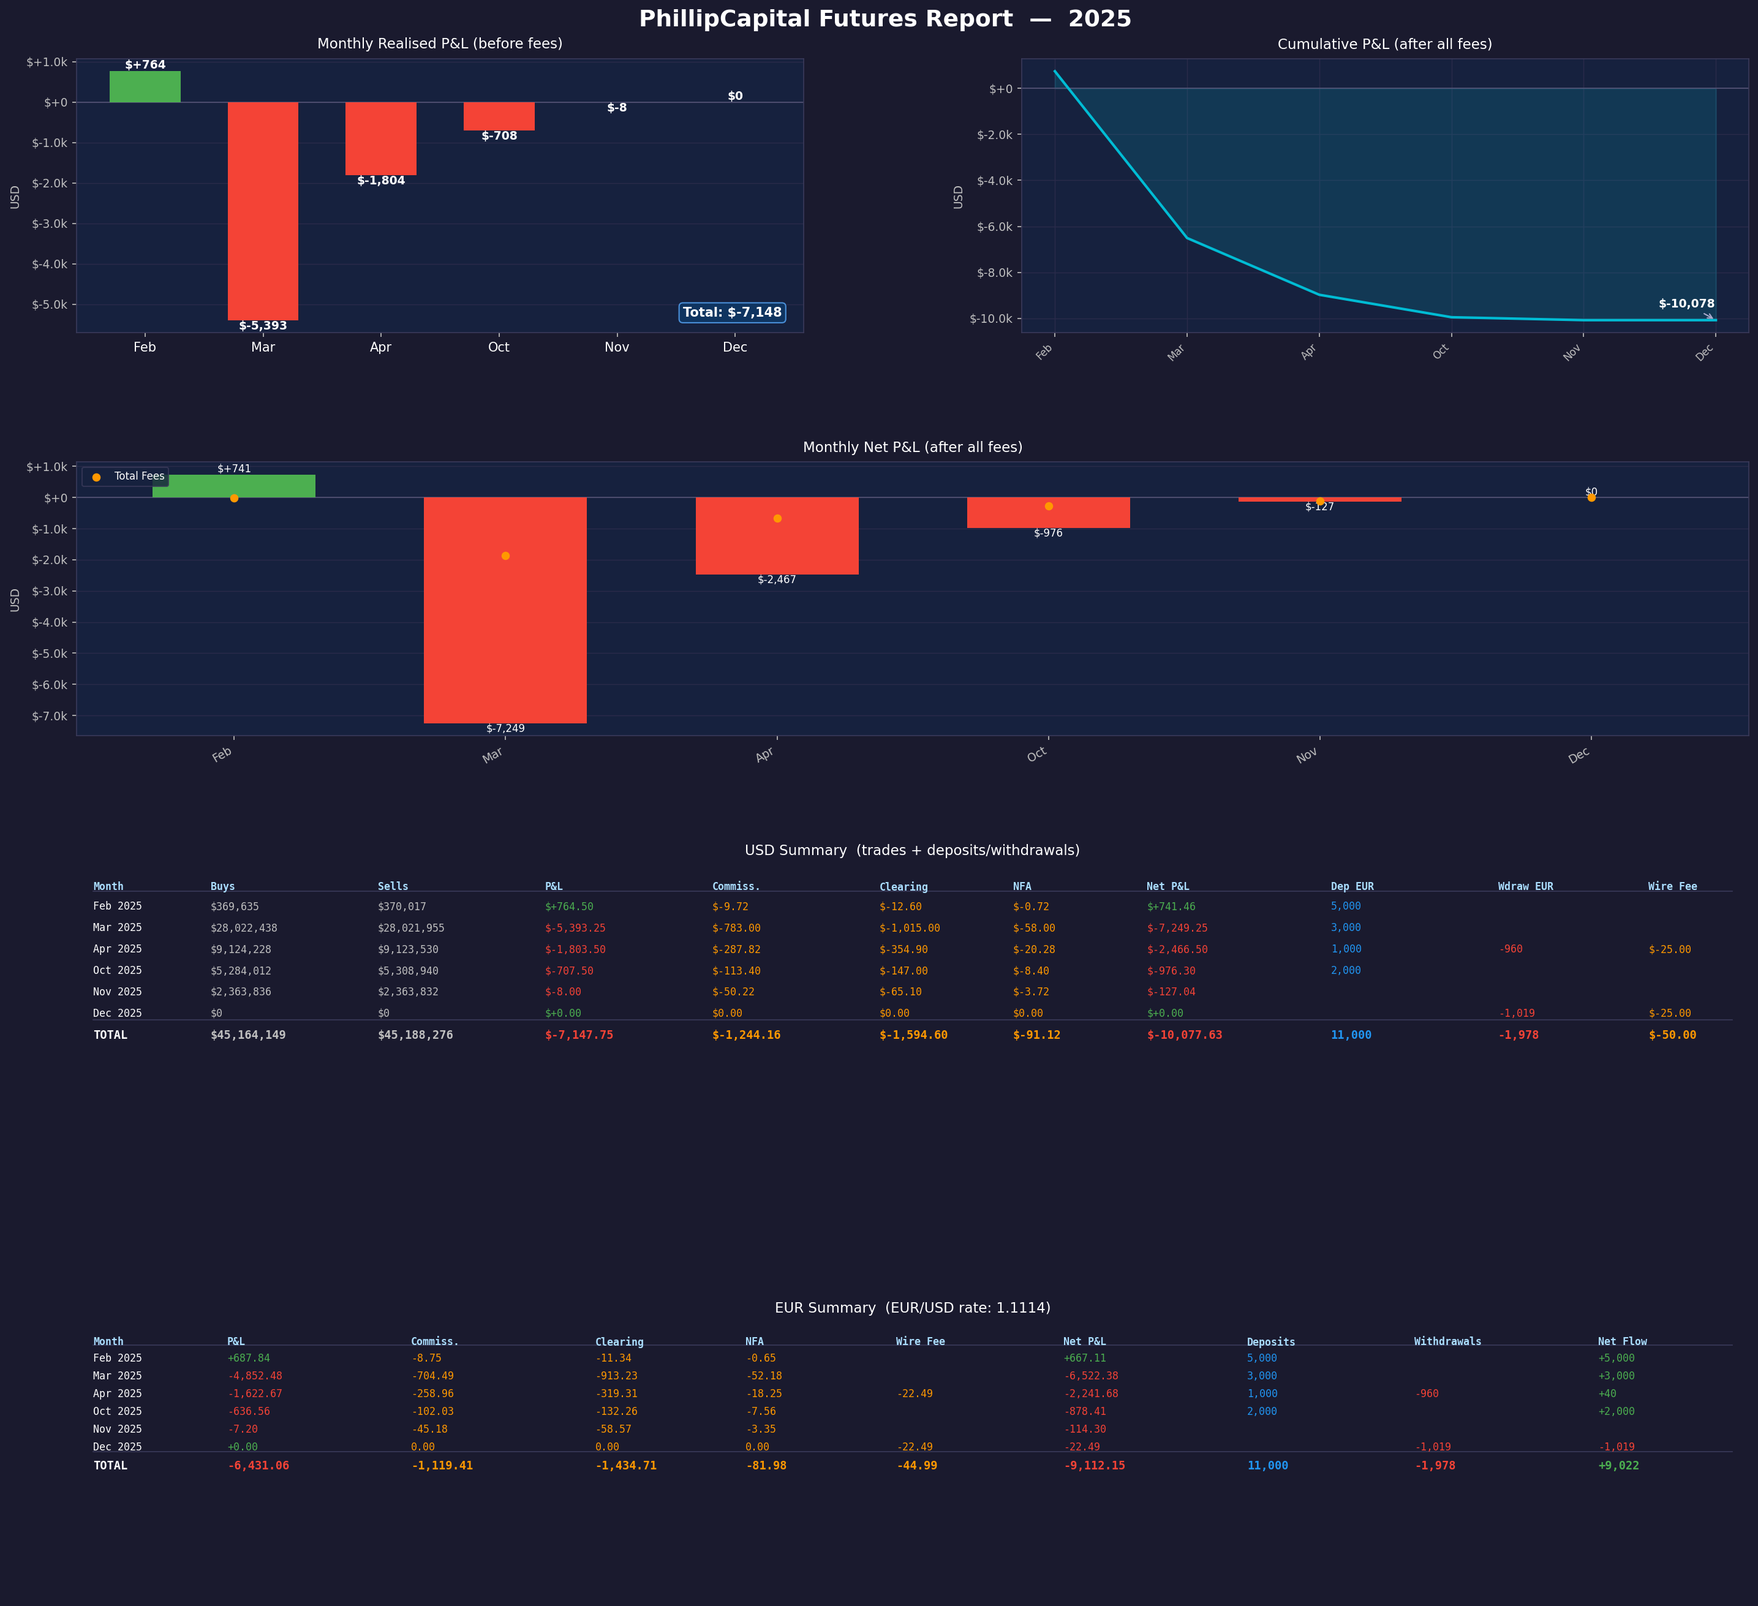
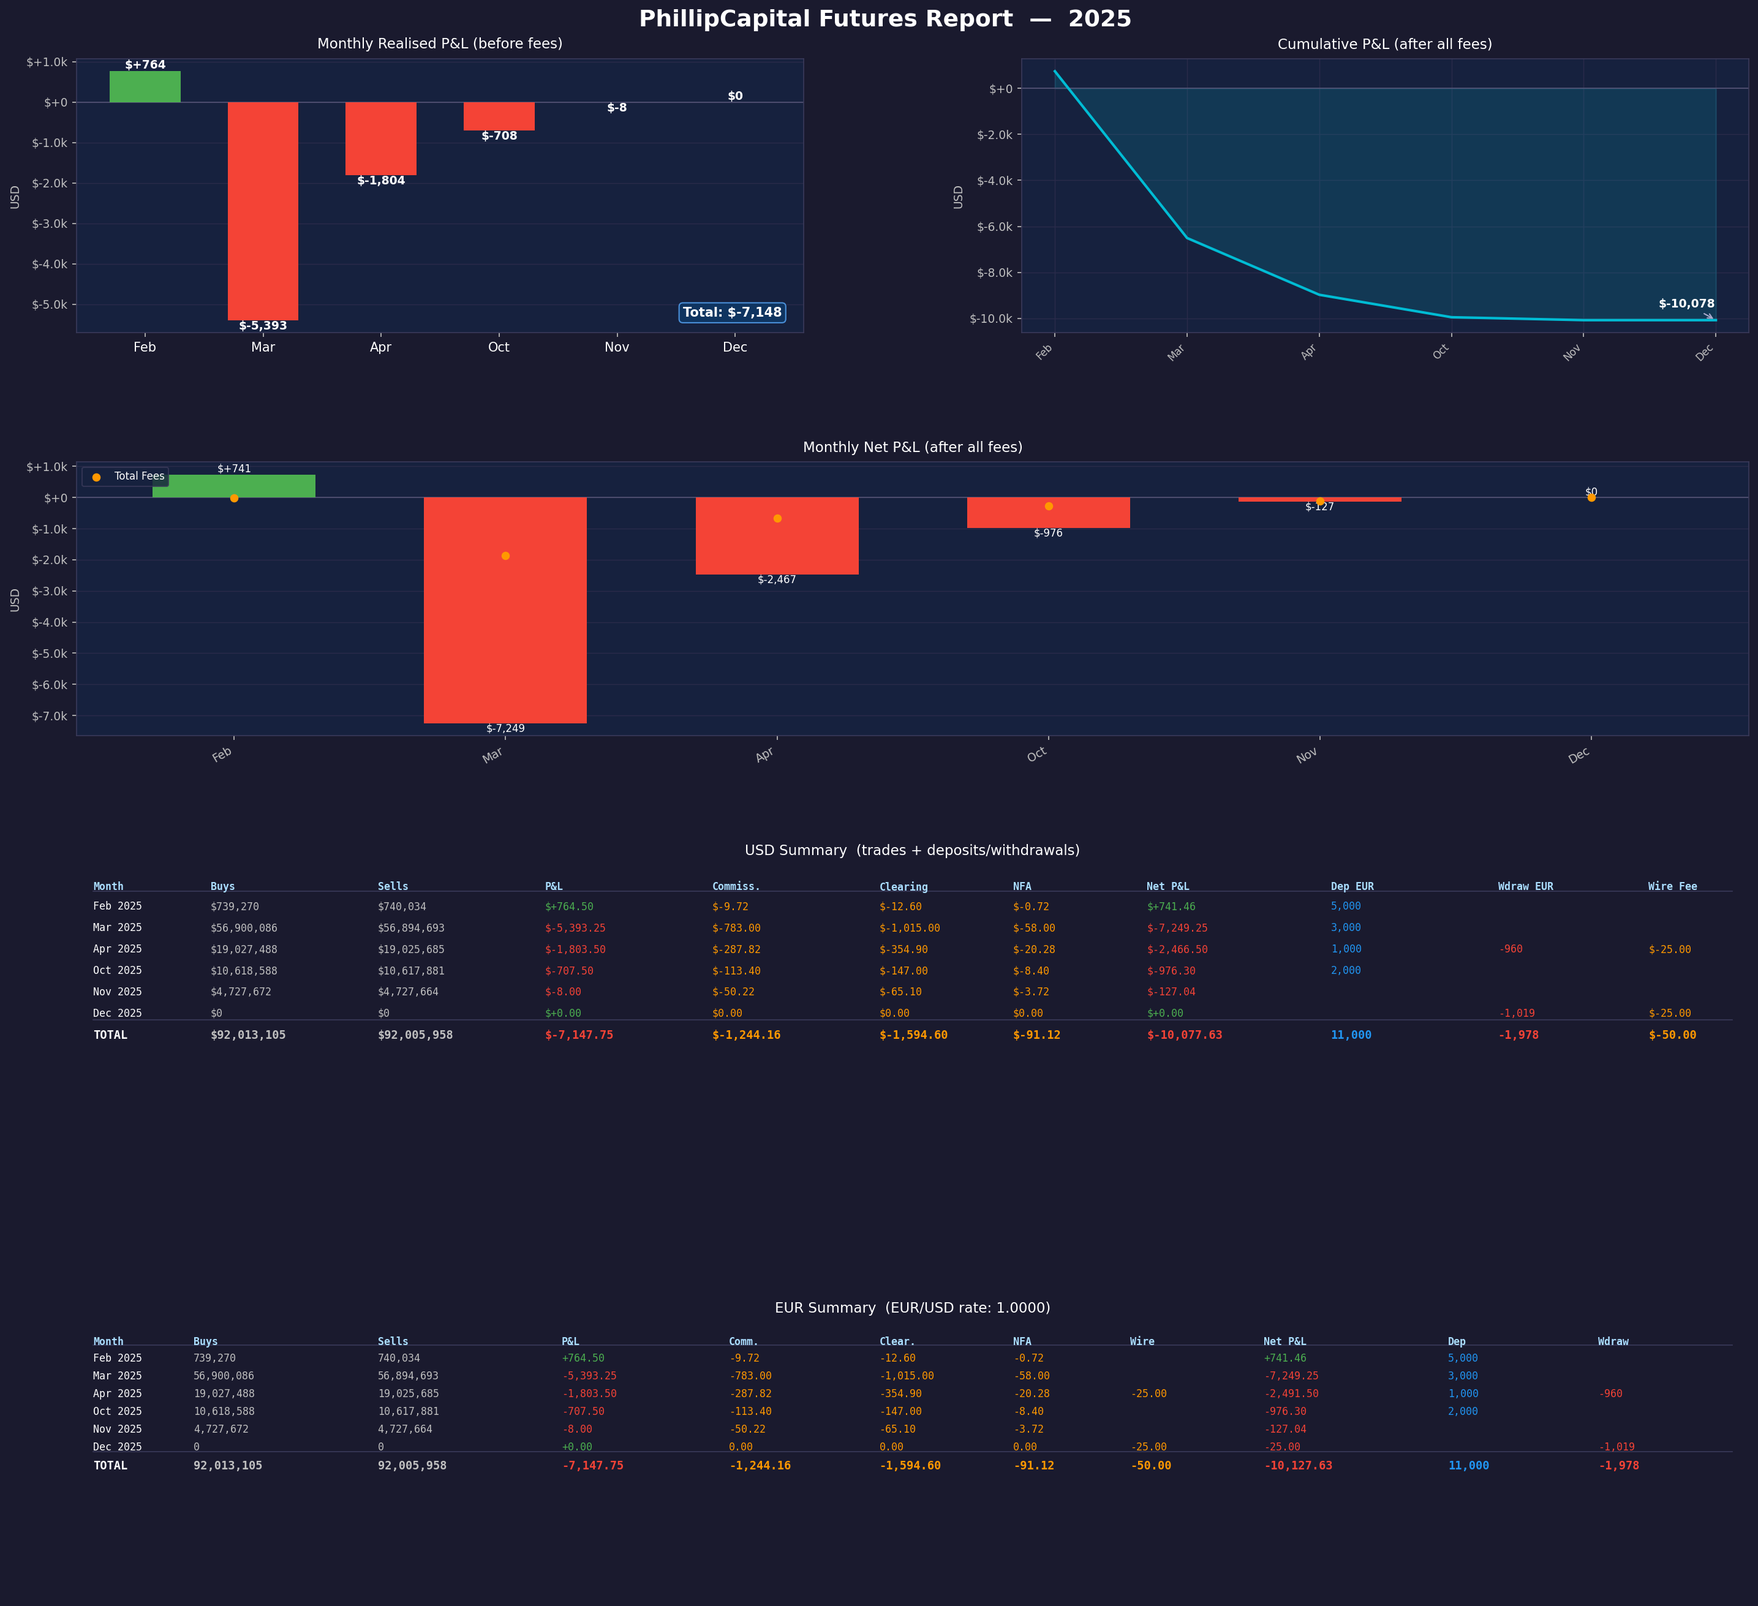
Apply multipliers to buys/sells totals, add EUR buys/sells columns, add debug output with grand totals
- Fix calc_month_totals to multiply buys/sells by contract multiplier
- Add Buys/Sells columns to EUR summary (console + PNG)
- Round diff to avoid -0.00 display
- Add debug_output.txt with per-contract data, grand totals, and raw PDF line matches
- Update example.png

diff --git a/parser.py b/parser.py
@@ -292,15 +292,16 @@ def parse_trades(pdf_path, year, multipliers):
 
 
 def calc_month_totals(data, month, multipliers):
-    """Calculate aggregated buys, sells, and calculated P&L for a month across all contracts."""
+    """Calculate aggregated buys, sells, and calculated P&L for a month across all contracts.
+    Buys and sells are multiplied by the contract multiplier to give USD values."""
     d = data[month]
     total_buys = 0.0
     total_sells = 0.0
     calc_pnl = 0.0
     for sym, c in d["contracts"].items():
         mult = multipliers.get(sym, 1)
-        total_buys += c["buys"]
-        total_sells += c["sells"]
+        total_buys += c["buys"] * mult
+        total_sells += c["sells"] * mult
         calc_pnl += (c["sells"] - c["buys"]) * mult
     return total_buys, total_sells, calc_pnl
 
@@ -320,15 +321,17 @@ def print_table(data, year, eur_rate, multipliers):
         print(f"\n{'':=^100}")
         print(f"{'PER-CONTRACT BREAKDOWN':^100}")
         print(f"{'':=^100}")
-        print(f"\n{'MONTH':>8} | {'SYM':>5} | {'MULT':>5} | {'BUY QTY':>8} | {'SELL QTY':>8} | {'BUYS':>16} | {'SELLS':>16} | {'CALC P&L':>14}")
+        print(f"\n{'MONTH':>8} | {'SYM':>5} | {'MULT':>5} | {'BUY QTY':>8} | {'SELL QTY':>8} | {'BUYS (USD)':>16} | {'SELLS (USD)':>16} | {'CALC P&L':>14}")
         print("-" * 100)
         for month in months:
             label = f"{MONTH_NAMES.get(month[:2], month[:2])} {year}"
             for sym in sorted(data[month]["contracts"].keys()):
                 c = data[month]["contracts"][sym]
                 mult = multipliers.get(sym, 1)
-                pnl = (c["sells"] - c["buys"]) * mult
-                print(f"{label:>8} | {sym:>5} | {mult:>5} | {c['buy_qty']:>8} | {c['sell_qty']:>8} | {c['buys']:>16,.2f} | {c['sells']:>16,.2f} | {pnl:>+14,.2f}")
+                buys_usd = c["buys"] * mult
+                sells_usd = c["sells"] * mult
+                pnl = sells_usd - buys_usd
+                print(f"{label:>8} | {sym:>5} | {mult:>5} | {c['buy_qty']:>8} | {c['sell_qty']:>8} | {buys_usd:>16,.2f} | {sells_usd:>16,.2f} | {pnl:>+14,.2f}")
 
     # ── USD Table ────────────────────────────────────────────────────────────
     print(f"\n{'':=^140}")
@@ -342,7 +345,7 @@ def print_table(data, year, eur_rate, multipliers):
         d = data[month]
         buys, sells, calc_pnl = calc_month_totals(data, month, multipliers)
         net = d["pnl"] + d["commission"] + d["clearing_fee"] + d["nfa_fee"]
-        diff = calc_pnl - d["pnl"]
+        diff = round(calc_pnl - d["pnl"], 2)
         label = f"{MONTH_NAMES.get(month[:2], month[:2])} {year}"
         print(f"{label:>8} | {buys:>14,.2f} | {sells:>14,.2f} | {calc_pnl:>+12,.2f} | {d['pnl']:>+12,.2f} | {diff:>+10,.2f} | {d['commission']:>12,.2f} | {d['clearing_fee']:>10,.2f} | {d['nfa_fee']:>8,.2f} | {net:>+14,.2f}")
         totals["buys"] += buys
@@ -353,7 +356,7 @@ def print_table(data, year, eur_rate, multipliers):
 
     print("-" * 140)
     net_total = totals["pnl"] + totals["commission"] + totals["clearing_fee"] + totals["nfa_fee"]
-    total_diff = totals["calc_pnl"] - totals["pnl"]
+    total_diff = round(totals["calc_pnl"] - totals["pnl"], 2)
     print(f"{'TOTAL':>8} | {totals['buys']:>14,.2f} | {totals['sells']:>14,.2f} | {totals['calc_pnl']:>+12,.2f} | {totals['pnl']:>+12,.2f} | {total_diff:>+10,.2f} | {totals['commission']:>12,.2f} | {totals['clearing_fee']:>10,.2f} | {totals['nfa_fee']:>8,.2f} | {net_total:>+14,.2f}")
 
     # ── Deposits & Withdrawals ───────────────────────────────────────────────
@@ -373,22 +376,23 @@ def print_table(data, year, eur_rate, multipliers):
     print(f"{'TOTAL':>8} | {totals['deposits_eur']:>16,.2f} | {totals['withdrawals_eur']:>+18,.2f} | {totals['wire_fees_usd']:>16,.2f} | {net_flow_total:>+16,.2f}")
 
     # ── EUR Table ────────────────────────────────────────────────────────────
-    print(f"\n{'':=^130}")
-    print(f"{'EUR SUMMARY  (EUR/USD rate: ' + f'{eur_rate:.4f})':^130}")
-    print(f"{'':=^130}")
+    print(f"\n{'':=^160}")
+    print(f"{'EUR SUMMARY  (EUR/USD rate: ' + f'{eur_rate:.4f})':^160}")
+    print(f"{'':=^160}")
     to_eur = 1.0 / eur_rate
-    print(f"\n{'MONTH':>8} | {'REALISED P&L':>14} | {'COMMISSION':>12} | {'CLEARING':>10} | {'NFA':>8} | {'WIRE FEES':>10} | {'NET P&L':>14} | {'DEPOSITS':>12} | {'WITHDRAWALS':>14}")
-    print("-" * 130)
+    print(f"\n{'MONTH':>8} | {'BUYS':>16} | {'SELLS':>16} | {'REALISED P&L':>14} | {'COMMISSION':>12} | {'CLEARING':>10} | {'NFA':>8} | {'WIRE FEES':>10} | {'NET P&L':>14} | {'DEPOSITS':>12} | {'WITHDRAWALS':>14}")
+    print("-" * 160)
 
     for month in months:
         d = data[month]
+        buys, sells, _ = calc_month_totals(data, month, multipliers)
         net_usd = d["pnl"] + d["commission"] + d["clearing_fee"] + d["nfa_fee"] + d["wire_fees_usd"]
         label = f"{MONTH_NAMES.get(month[:2], month[:2])} {year}"
-        print(f"{label:>8} | {d['pnl']*to_eur:>+14,.2f} | {d['commission']*to_eur:>12,.2f} | {d['clearing_fee']*to_eur:>10,.2f} | {d['nfa_fee']*to_eur:>8,.2f} | {d['wire_fees_usd']*to_eur:>10,.2f} | {net_usd*to_eur:>+14,.2f} | {d['deposits_eur']:>12,.2f} | {d['withdrawals_eur']:>+14,.2f}")
+        print(f"{label:>8} | {buys*to_eur:>16,.2f} | {sells*to_eur:>16,.2f} | {d['pnl']*to_eur:>+14,.2f} | {d['commission']*to_eur:>12,.2f} | {d['clearing_fee']*to_eur:>10,.2f} | {d['nfa_fee']*to_eur:>8,.2f} | {d['wire_fees_usd']*to_eur:>10,.2f} | {net_usd*to_eur:>+14,.2f} | {d['deposits_eur']:>12,.2f} | {d['withdrawals_eur']:>+14,.2f}")
 
-    print("-" * 130)
+    print("-" * 160)
     total_net_usd = net_total + totals["wire_fees_usd"]
-    print(f"{'TOTAL':>8} | {totals['pnl']*to_eur:>+14,.2f} | {totals['commission']*to_eur:>12,.2f} | {totals['clearing_fee']*to_eur:>10,.2f} | {totals['nfa_fee']*to_eur:>8,.2f} | {totals['wire_fees_usd']*to_eur:>10,.2f} | {total_net_usd*to_eur:>+14,.2f} | {totals['deposits_eur']:>12,.2f} | {totals['withdrawals_eur']:>+14,.2f}")
+    print(f"{'TOTAL':>8} | {totals['buys']*to_eur:>16,.2f} | {totals['sells']*to_eur:>16,.2f} | {totals['pnl']*to_eur:>+14,.2f} | {totals['commission']*to_eur:>12,.2f} | {totals['clearing_fee']*to_eur:>10,.2f} | {totals['nfa_fee']*to_eur:>8,.2f} | {totals['wire_fees_usd']*to_eur:>10,.2f} | {total_net_usd*to_eur:>+14,.2f} | {totals['deposits_eur']:>12,.2f} | {totals['withdrawals_eur']:>+14,.2f}")
 
 
 def generate_report(data, year, pdf_path, eur_rate, multipliers):
@@ -617,8 +621,8 @@ def generate_report(data, year, pdf_path, eur_rate, multipliers):
     ax_eur.axis("off")
     ax_eur.set_title(f"EUR Summary  (EUR/USD rate: {eur_rate:.4f})", color="white", fontsize=11, pad=8)
 
-    eur_cols = ["Month", "P&L", "Commiss.", "Clearing", "NFA", "Wire Fee", "Net P&L", "Deposits", "Withdrawals", "Net Flow"]
-    eur_x = [0.01, 0.09, 0.20, 0.31, 0.40, 0.49, 0.59, 0.70, 0.80, 0.91]
+    eur_cols = ["Month", "Buys", "Sells", "P&L", "Comm.", "Clear.", "NFA", "Wire", "Net P&L", "Dep", "Wdraw"]
+    eur_x = [0.01, 0.07, 0.18, 0.29, 0.39, 0.48, 0.56, 0.63, 0.71, 0.82, 0.91]
     y_start_e = 0.95
 
     for ci, label in enumerate(eur_cols):
@@ -633,18 +637,19 @@ def generate_report(data, year, pdf_path, eur_rate, multipliers):
     for ri, month in enumerate(months):
         y = y_start_e - 0.06 - ri * row_h
         d = data[month]
+        buys_m, sells_m, _ = month_totals[ri]
         net_usd = d["pnl"] + d["commission"] + d["clearing_fee"] + d["nfa_fee"] + d["wire_fees_usd"]
-        net_flow = d["deposits_eur"] + d["withdrawals_eur"]
         m_label = f"{MONTH_NAMES.get(month[:2], month[:2])} {year}"
 
         pnl_e = d["pnl"] * to_eur
         net_e = net_usd * to_eur
         pnl_color = pos_color if pnl_e >= 0 else neg_color
         net_color = pos_color if net_e >= 0 else neg_color
-        flow_color = pos_color if net_flow >= 0 else neg_color
 
         vals = [
             (m_label, "white"),
+            (f"{buys_m*to_eur:,.0f}", TICK_COL),
+            (f"{sells_m*to_eur:,.0f}", TICK_COL),
             (f"{pnl_e:+,.2f}", pnl_color),
             (f"{d['commission']*to_eur:,.2f}", "#FF9800"),
             (f"{d['clearing_fee']*to_eur:,.2f}", "#FF9800"),
@@ -653,7 +658,6 @@ def generate_report(data, year, pdf_path, eur_rate, multipliers):
             (f"{net_e:+,.2f}", net_color),
             (f"{d['deposits_eur']:,.0f}" if d['deposits_eur'] else "", "#2196F3"),
             (f"{d['withdrawals_eur']:+,.0f}" if d['withdrawals_eur'] else "", neg_color),
-            (f"{net_flow:+,.0f}" if net_flow else "", flow_color),
         ]
         for ci, (txt, color) in enumerate(vals):
             ax_eur.text(eur_x[ci], y, txt,
@@ -667,10 +671,11 @@ def generate_report(data, year, pdf_path, eur_rate, multipliers):
 
     total_net_usd_all = total_net + total_wire_fees
     net_flow_total = total_deps + total_wds
-    flow_color = pos_color if net_flow_total >= 0 else neg_color
 
     eur_totals = [
         ("TOTAL", "white"),
+        (f"{total_buys*to_eur:,.0f}", TICK_COL),
+        (f"{total_sells*to_eur:,.0f}", TICK_COL),
         (f"{total_pnl*to_eur:+,.2f}", pos_color if total_pnl >= 0 else neg_color),
         (f"{total_comm*to_eur:,.2f}", "#FF9800"),
         (f"{total_clear*to_eur:,.2f}", "#FF9800"),
@@ -679,7 +684,6 @@ def generate_report(data, year, pdf_path, eur_rate, multipliers):
         (f"{total_net_usd_all*to_eur:+,.2f}", pos_color if total_net_usd_all >= 0 else neg_color),
         (f"{total_deps:,.0f}", "#2196F3"),
         (f"{total_wds:+,.0f}", neg_color),
-        (f"{net_flow_total:+,.0f}", flow_color),
     ]
     for ci, (txt, color) in enumerate(eur_totals):
         ax_eur.text(eur_x[ci], y_total_e, txt,
@@ -721,5 +725,154 @@ else:
 
 print()
 data = parse_trades(pdf_file, year, multipliers)
+
+# ── Debug dump ───────────────────────────────────────────────────────────────
+debug_path = os.path.join(os.path.dirname(os.path.abspath(__file__)), "debug_output.txt")
+with open(debug_path, "w") as dbg:
+    to_eur = 1.0 / eur_rate
+    months = sorted(data.keys())
+    for month in months:
+        d = data[month]
+        label = f"{MONTH_NAMES.get(month[:2], month[:2])} {year}"
+        dbg.write(f"\n{'='*80}\n{label}\n{'='*80}\n")
+
+        # Per-contract raw data
+        for sym in sorted(d["contracts"].keys()):
+            c = d["contracts"][sym]
+            mult = multipliers.get(sym, 1)
+            buys_raw = c["buys"]
+            sells_raw = c["sells"]
+            buys_usd = buys_raw * mult
+            sells_usd = sells_raw * mult
+            pnl_calc = sells_usd - buys_usd
+            dbg.write(f"  {sym} (mult={mult}):\n")
+            dbg.write(f"    buy_qty={c['buy_qty']}  sell_qty={c['sell_qty']}\n")
+            dbg.write(f"    buys_raw (price*qty)  = {buys_raw:.2f}\n")
+            dbg.write(f"    sells_raw (price*qty) = {sells_raw:.2f}\n")
+            dbg.write(f"    buys_usd (raw*mult)   = {buys_usd:.2f}\n")
+            dbg.write(f"    sells_usd (raw*mult)  = {sells_usd:.2f}\n")
+            dbg.write(f"    calc_pnl (sells-buys) = {pnl_calc:.2f}\n")
+
+        # Aggregated month totals
+        buys_tot, sells_tot, calc_pnl = calc_month_totals(data, month, multipliers)
+        net = d["pnl"] + d["commission"] + d["clearing_fee"] + d["nfa_fee"]
+        diff = round(calc_pnl - d["pnl"], 2)
+        dbg.write(f"\n  AGGREGATED:\n")
+        dbg.write(f"    total_buys_usd  = {buys_tot:.2f}\n")
+        dbg.write(f"    total_sells_usd = {sells_tot:.2f}\n")
+        dbg.write(f"    sells - buys    = {sells_tot - buys_tot:.2f}\n")
+        dbg.write(f"    calc_pnl        = {calc_pnl:.2f}\n")
+        dbg.write(f"    pdf_pnl         = {d['pnl']:.2f}\n")
+        dbg.write(f"    diff            = {diff:.2f}\n")
+        dbg.write(f"    commission      = {d['commission']:.2f}\n")
+        dbg.write(f"    clearing_fee    = {d['clearing_fee']:.2f}\n")
+        dbg.write(f"    nfa_fee         = {d['nfa_fee']:.2f}\n")
+        dbg.write(f"    net_pnl (pdf)   = {net:.2f}\n")
+        dbg.write(f"    deposits_eur    = {d['deposits_eur']:.2f}\n")
+        dbg.write(f"    withdrawals_eur = {d['withdrawals_eur']:.2f}\n")
+        dbg.write(f"    wire_fees_usd   = {d['wire_fees_usd']:.2f}\n")
+
+        # EUR conversions
+        dbg.write(f"\n  EUR (rate={eur_rate:.4f}, 1/rate={to_eur:.6f}):\n")
+        dbg.write(f"    buys_eur        = {buys_tot * to_eur:.2f}\n")
+        dbg.write(f"    sells_eur       = {sells_tot * to_eur:.2f}\n")
+        dbg.write(f"    sells-buys_eur  = {(sells_tot - buys_tot) * to_eur:.2f}\n")
+        dbg.write(f"    pnl_eur         = {d['pnl'] * to_eur:.2f}\n")
+        net_usd_all = net + d["wire_fees_usd"]
+        dbg.write(f"    net_pnl_eur     = {net_usd_all * to_eur:.2f}\n")
+
+    # Grand totals across all months
+    dbg.write(f"\n\n{'='*80}\n")
+    dbg.write(f"GRAND TOTALS (all months)\n")
+    dbg.write(f"{'='*80}\n")
+    g_buys = 0.0
+    g_sells = 0.0
+    g_pnl = 0.0
+    g_comm = 0.0
+    g_clear = 0.0
+    g_nfa = 0.0
+    g_wire = 0.0
+    g_deps = 0.0
+    g_wds = 0.0
+    for month in months:
+        d = data[month]
+        b, s, cp = calc_month_totals(data, month, multipliers)
+        g_buys += b
+        g_sells += s
+        g_pnl += d["pnl"]
+        g_comm += d["commission"]
+        g_clear += d["clearing_fee"]
+        g_nfa += d["nfa_fee"]
+        g_wire += d["wire_fees_usd"]
+        g_deps += d["deposits_eur"]
+        g_wds += d["withdrawals_eur"]
+    g_net = g_pnl + g_comm + g_clear + g_nfa
+    g_net_all = g_net + g_wire
+    dbg.write(f"  total_buys_usd    = {g_buys:,.2f}\n")
+    dbg.write(f"  total_sells_usd   = {g_sells:,.2f}\n")
+    dbg.write(f"  total_pnl         = {g_pnl:,.2f}\n")
+    dbg.write(f"  total_commission   = {g_comm:,.2f}\n")
+    dbg.write(f"  total_clearing     = {g_clear:,.2f}\n")
+    dbg.write(f"  total_nfa          = {g_nfa:,.2f}\n")
+    dbg.write(f"  total_wire_fees    = {g_wire:,.2f}\n")
+    dbg.write(f"  net_pnl (no wire)  = {g_net:,.2f}\n")
+    dbg.write(f"  net_pnl (w/ wire)  = {g_net_all:,.2f}\n")
+    dbg.write(f"  deposits_eur       = {g_deps:,.2f}\n")
+    dbg.write(f"  withdrawals_eur    = {g_wds:,.2f}\n")
+    dbg.write(f"\n  EUR (rate={eur_rate:.4f}):\n")
+    dbg.write(f"    total_buys_eur   = {g_buys * to_eur:,.2f}\n")
+    dbg.write(f"    total_sells_eur  = {g_sells * to_eur:,.2f}\n")
+    dbg.write(f"    total_pnl_eur    = {g_pnl * to_eur:,.2f}\n")
+    dbg.write(f"    net_pnl_eur      = {g_net_all * to_eur:,.2f}\n")
+
+# Also dump raw PDF lines that matched our parsing regexes
+with open(debug_path, "a") as dbg:
+    dbg.write(f"\n\n{'#'*80}\n")
+    dbg.write(f"RAW PDF LINES MATCHED\n")
+    dbg.write(f"{'#'*80}\n")
+    yy = year[2:]
+    current_month = None
+    with pdfplumber.open(pdf_file) as pdf:
+        for pi, page in enumerate(pdf.pages):
+            text = page.extract_text()
+            if not text:
+                continue
+            m = re.search(rf"RUN DATE\s*:\s*(\d{{2}})/\d{{2}}/{year}", text)
+            if m:
+                current_month = m.group(1) + year
+            if not current_month:
+                continue
+            for line in text.split("\n"):
+                matched = None
+                if re.match(rf"\d{{2}}/\d{{2}}/{year}\s+Realised P&L", line):
+                    matched = "PNL"
+                elif re.match(rf"\d{{2}}/\d{{2}}/{year}\s+Commission\s", line):
+                    matched = "COMM"
+                elif re.match(rf"\d{{2}}/\d{{2}}/{year}\s+Clearing Fee\s", line):
+                    matched = "CLEAR"
+                elif re.match(rf"\d{{2}}/\d{{2}}/{year}\s+NFA\s", line):
+                    matched = "NFA"
+                elif re.match(rf"\d{{2}}/\d{{2}}/{year}\s+WIRE", line):
+                    matched = "WIRE"
+                elif re.search(rf"\d+\s+CME\s+.*?\(\w+\)\s+(?:{MONTH_ABBREVS})\s+{yy}", line):
+                    matched = "TRADE"
+                if matched:
+                    dbg.write(f"  pg{pi+1:>3} [{current_month}] {matched:>5}: {line}\n")
+
+    # Also dump summary page totals (Realised P/L lines)
+    dbg.write(f"\n\n{'#'*80}\n")
+    dbg.write(f"PDF SUMMARY PAGES (Realised P/L totals)\n")
+    dbg.write(f"{'#'*80}\n")
+    with pdfplumber.open(pdf_file) as pdf:
+        for pi, page in enumerate(pdf.pages):
+            text = page.extract_text()
+            if not text:
+                continue
+            for line in text.split("\n"):
+                if "Realised P/L" in line or "TOTAL REALISED" in line:
+                    dbg.write(f"  pg{pi+1:>3}: {line}\n")
+
+print(f"Debug output written to: {debug_path}")
+
 print_table(data, year, eur_rate, multipliers)
 generate_report(data, year, pdf_file, eur_rate, multipliers)
